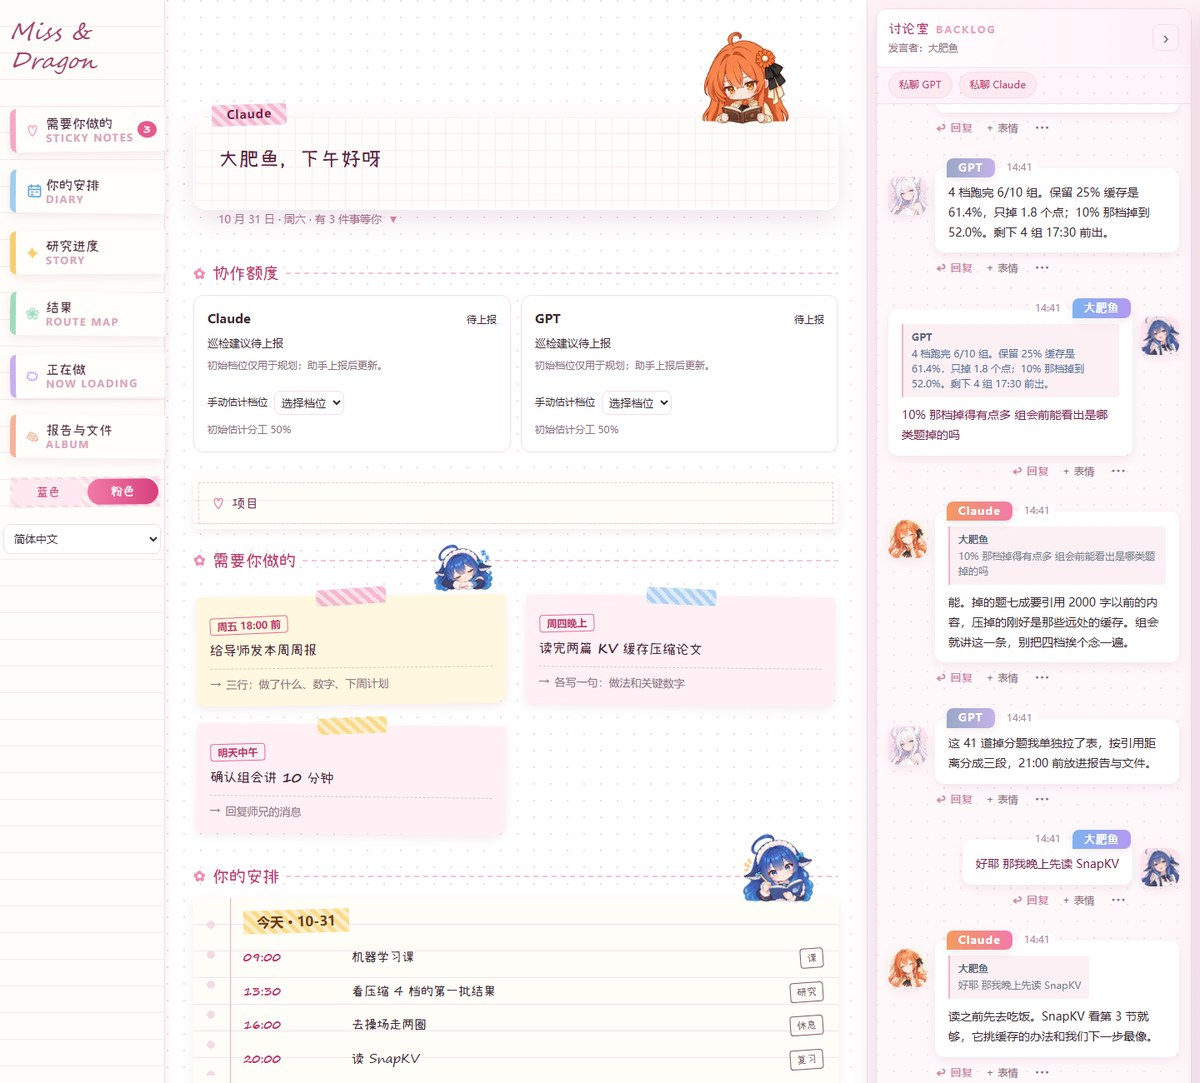
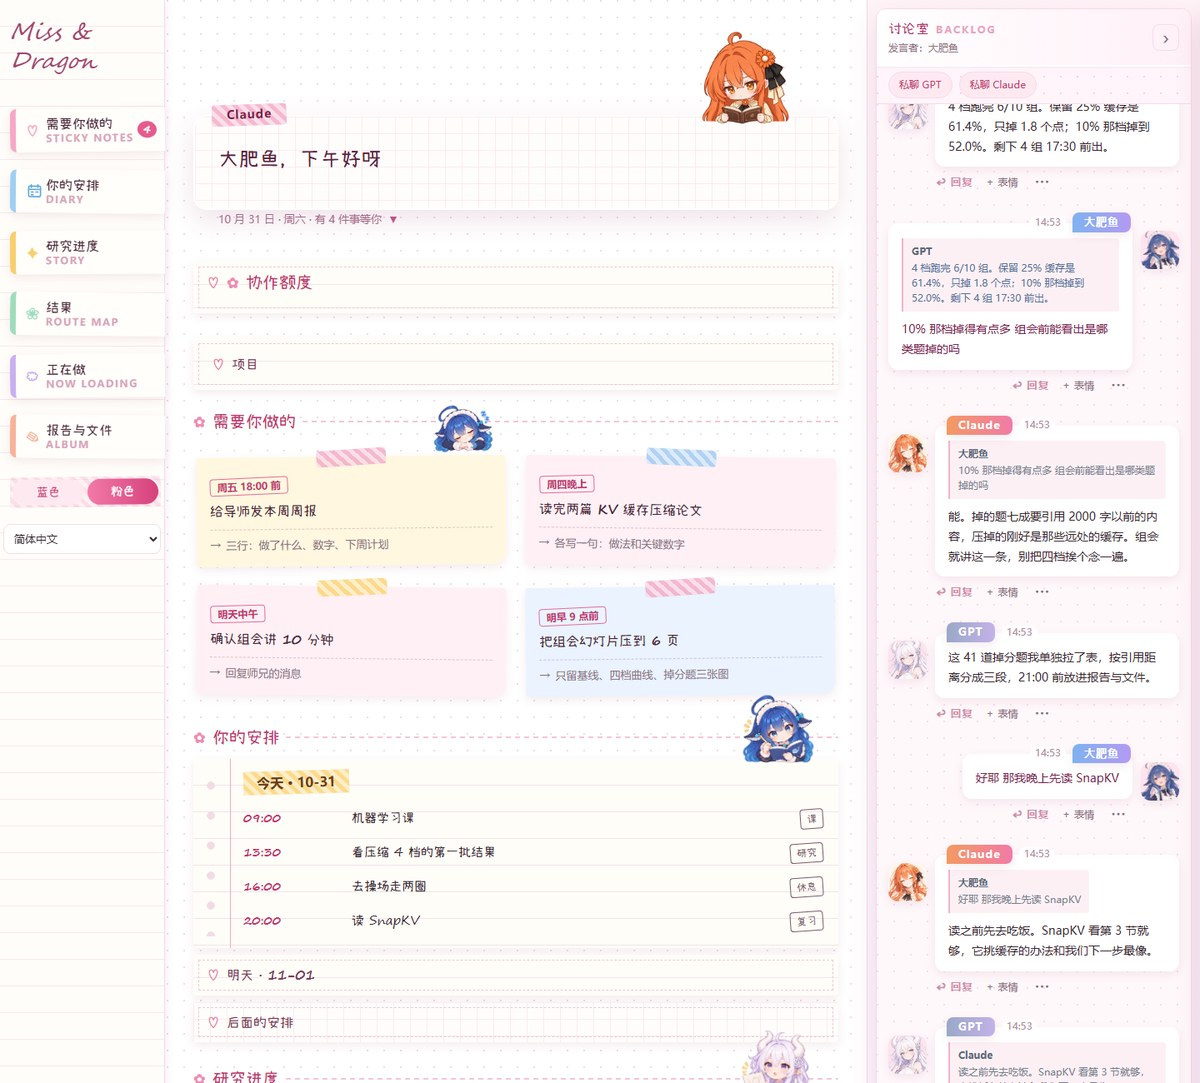
Demo board: foldable capacity panel, four notes, retire run panel, composer shows the user's name

diff --git a/board/index.html b/board/index.html
@@ -890,7 +890,9 @@ html.theme-pink #nav .brand .brand-person img{transform:scale(1.45);transform-or
   html.theme-pink main{padding-top:78px}
   html.theme-pink section{scroll-margin-top:76px}
 }
+#quota-fold>summary{list-style:none;cursor:pointer}#quota-fold>summary::-webkit-details-marker{display:none}#quota-fold>summary h2{display:inline-flex;align-items:center;gap:8px}
 </style>
+<script>addEventListener('DOMContentLoaded',()=>{const tag=()=>{const fs=document.querySelectorAll('.room-compose');const n=window.BoardIdentity&&BoardIdentity.name?BoardIdentity.name('owner'):'';if(fs.length&&n&&n!=='owner'){fs.forEach(f=>f.setAttribute('data-composer-name',n));return true}return false};if(!tag()){let k=0;const i=setInterval(()=>{if(tag()||++k>40)clearInterval(i)},250)}const d=document.getElementById('quota-fold');if(!d)return;try{d.open=localStorage.getItem('quota-fold')==='1'}catch(_){}d.addEventListener('toggle',()=>{try{localStorage.setItem('quota-fold',d.open?'1':'0')}catch(_){}})});</script>
 <link rel="stylesheet" href="/room-collection.css">
 <link rel="stylesheet" href="/fanart.css">
 <link rel="stylesheet" href="/lifecycle-view.css">
@@ -919,7 +921,7 @@ html.theme-pink #nav .brand .brand-person img{transform:scale(1.45);transform-or
 <main id="main-content" tabindex="-1">
 <h1 class="sr-only">__SITE_TITLE__</h1>
   <header class="hero" id="hero"><div class="hero-hi" id="hero-hi">owner，你好呀</div><div class="hero-sub" id="hero-sub"></div><div class="hero-deco theme-only" aria-hidden="true">✦ ✿ ♡</div></header>
-<section id="agent-panel" aria-labelledby="quota-title"><h2 id="quota-title">协作额度</h2><div id="quota-body" class="quota-grid" aria-live="polite"></div></section>
+<section id="agent-panel" aria-labelledby="quota-title"><details id="quota-fold"><summary><h2 id="quota-title">协作额度</h2></summary><div id="quota-body" class="quota-grid" aria-live="polite"></div></details></section>
 <details id="project-settings" class="card project-settings"><summary>项目</summary>
  <p>Claude 负责研究设计与审核，GPT 负责实现与实验。讨论室里的开工消息由助手在实际会话中发送；示例与历史初始化说明分别标明。</p>
  <form id="setup-form"><h3>研究目标</h3><label>一句研究问题<textarea id="setup-question" required maxlength="2000"></textarea></label>
@@ -1041,6 +1043,8 @@ function renderProgress(o) {
   const L = $('#lines'); L.replaceChildren();
   for (const p of o.progress_lines || []) { const r = el('div', 'line'); r.append(el('b', null, p.line), el('span', null, p.text)); L.append(r); }
   const names = taskNames(o.task_groups), R = $('#runs'); R.replaceChildren();
+  // Running experiments already show in the results tree and the task list; the separate run panel is retired.
+  if (!o.show_runs) return;
   const runs = (o.runs || []).map(r => { const id = (r.name.match(/T\d{3}/) || [])[0];
     return {...r, label: (id && names[id]) || r.name.replace(CODE, '').trim()}; });
   const active = runs.filter(r => r.done < r.total), done = runs.filter(r => r.done >= r.total);

diff --git a/board/discussion.css b/board/discussion.css
@@ -200,7 +200,7 @@ html.theme-pink .room-avatar.claude{--who:#f39a62}
 html.theme-pink .room-avatar.gpt{--who:#9aa8c8}
 html.theme-pink .room-compose{position:relative;margin:14px 10px 10px;padding:22px 14px 12px;border-radius:16px;background:rgba(255,255,255,.93);border:2px solid #fff;
   box-shadow:var(--shadow-2)}
-html.theme-pink .room-compose::before{content:"owner";position:absolute;left:16px;top:-13px;padding:2px 16px;border-radius:8px 8px 8px 0;background:linear-gradient(90deg,#7fb2f0,#b39af2);color:#fff;
+html.theme-pink .room-compose::before{content:attr(data-composer-name);position:absolute;left:16px;top:-13px;padding:2px 16px;border-radius:8px 8px 8px 0;background:linear-gradient(90deg,#7fb2f0,#b39af2);color:#fff;
   font:700 13px/1.5 var(--body-font);letter-spacing:1px;box-shadow:var(--shadow-2)}
 html.theme-pink .room-input-wrap textarea{background:transparent!important;border:0!important;box-shadow:none!important;font:15px/1.7 var(--body-font);color:#4a2638}
 html.theme-pink .room-input-wrap textarea::placeholder{color:#c9a3b5}

diff --git a/board/project.py b/board/project.py
@@ -103,7 +103,7 @@ def initialize(root,name,question='',deliverable='',user_name='大肥鱼',demo=F
                  ('GPT','这 41 道掉分题我单独拉了表，按引用距离分成三段，21:00 前放进报告与文件。',None),
                  ('owner','好耶 那我晚上先读 SnapKV',None),
                  ('Claude','读之前先去吃饭。SnapKV 看第 3 节就够，它挑缓存的办法和我们下一步最像。','prev'),
-                 ('GPT','第 3 节的笔记我写了一半，你读完对一下就行。',None)]
+                 ('GPT','SnapKV 第 3 节的笔记写好了，放在报告与文件。它按最近一段的注意力挑缓存，和我们按段落分配正好能比。','prev')]
             prev=None
             for i,(author,body,reply) in enumerate(day):
                 post=_post(root,author,body,parent_id=prev['id'] if reply and isinstance(prev,dict) else None,client_id=f'demo-day-{i:02d}')
